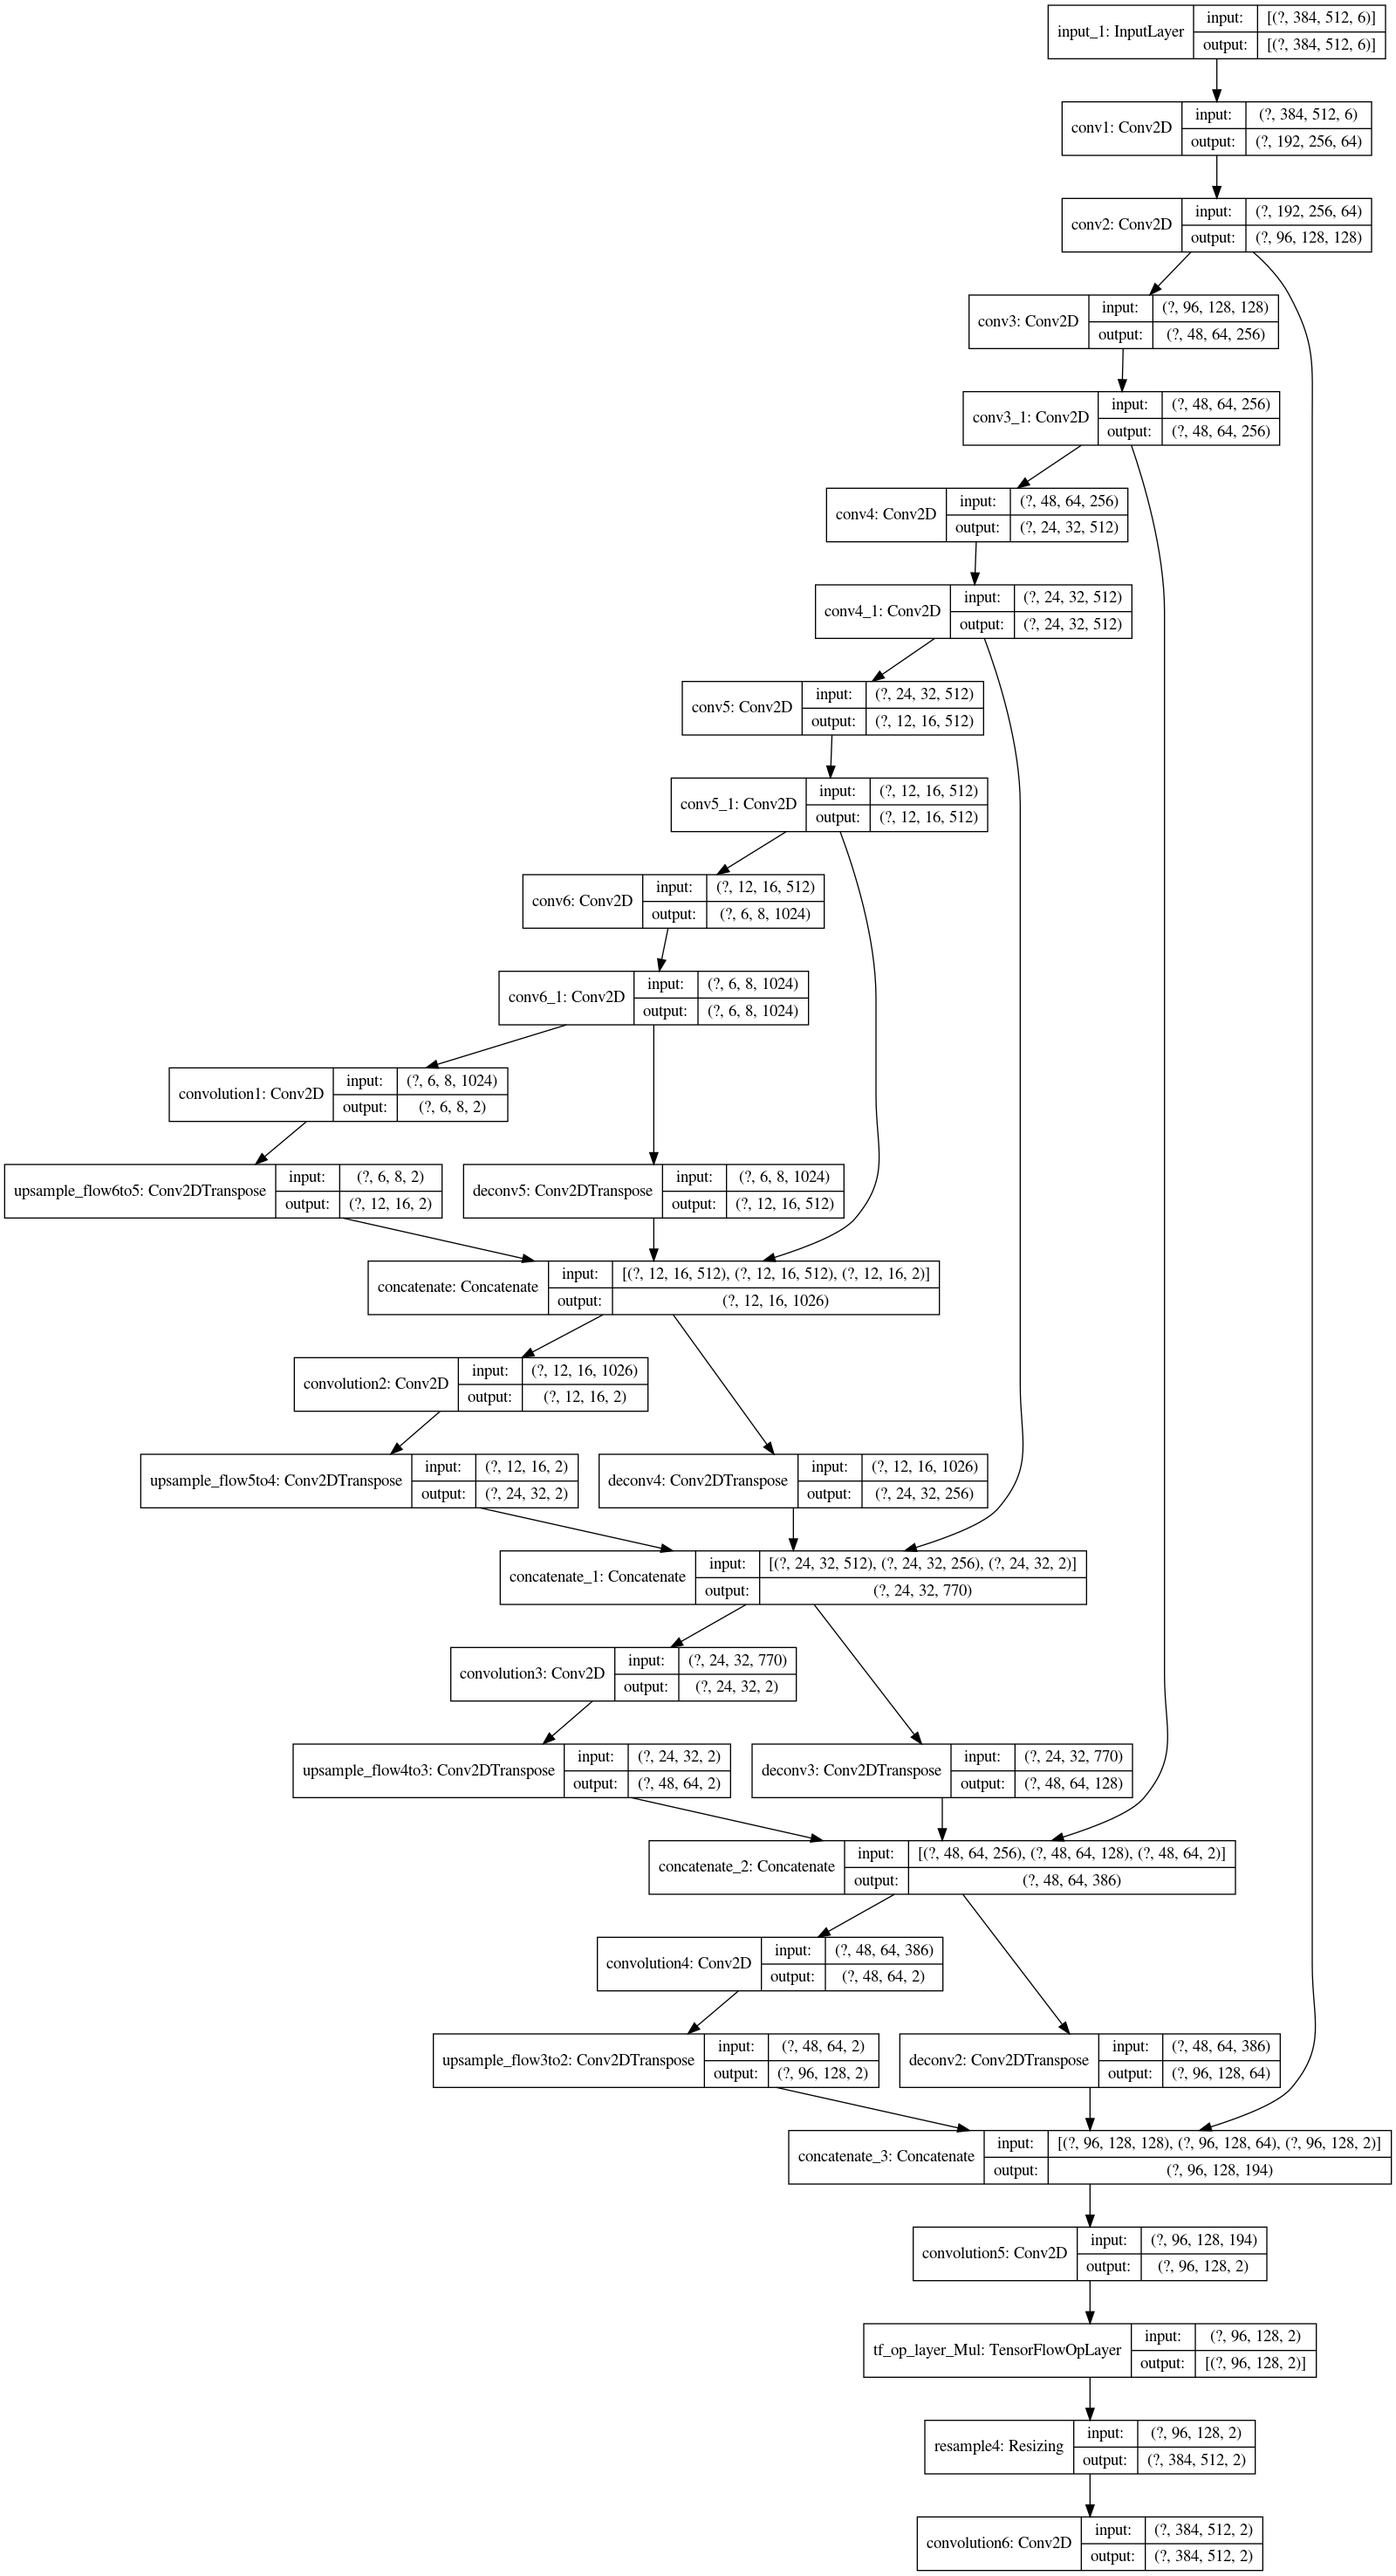
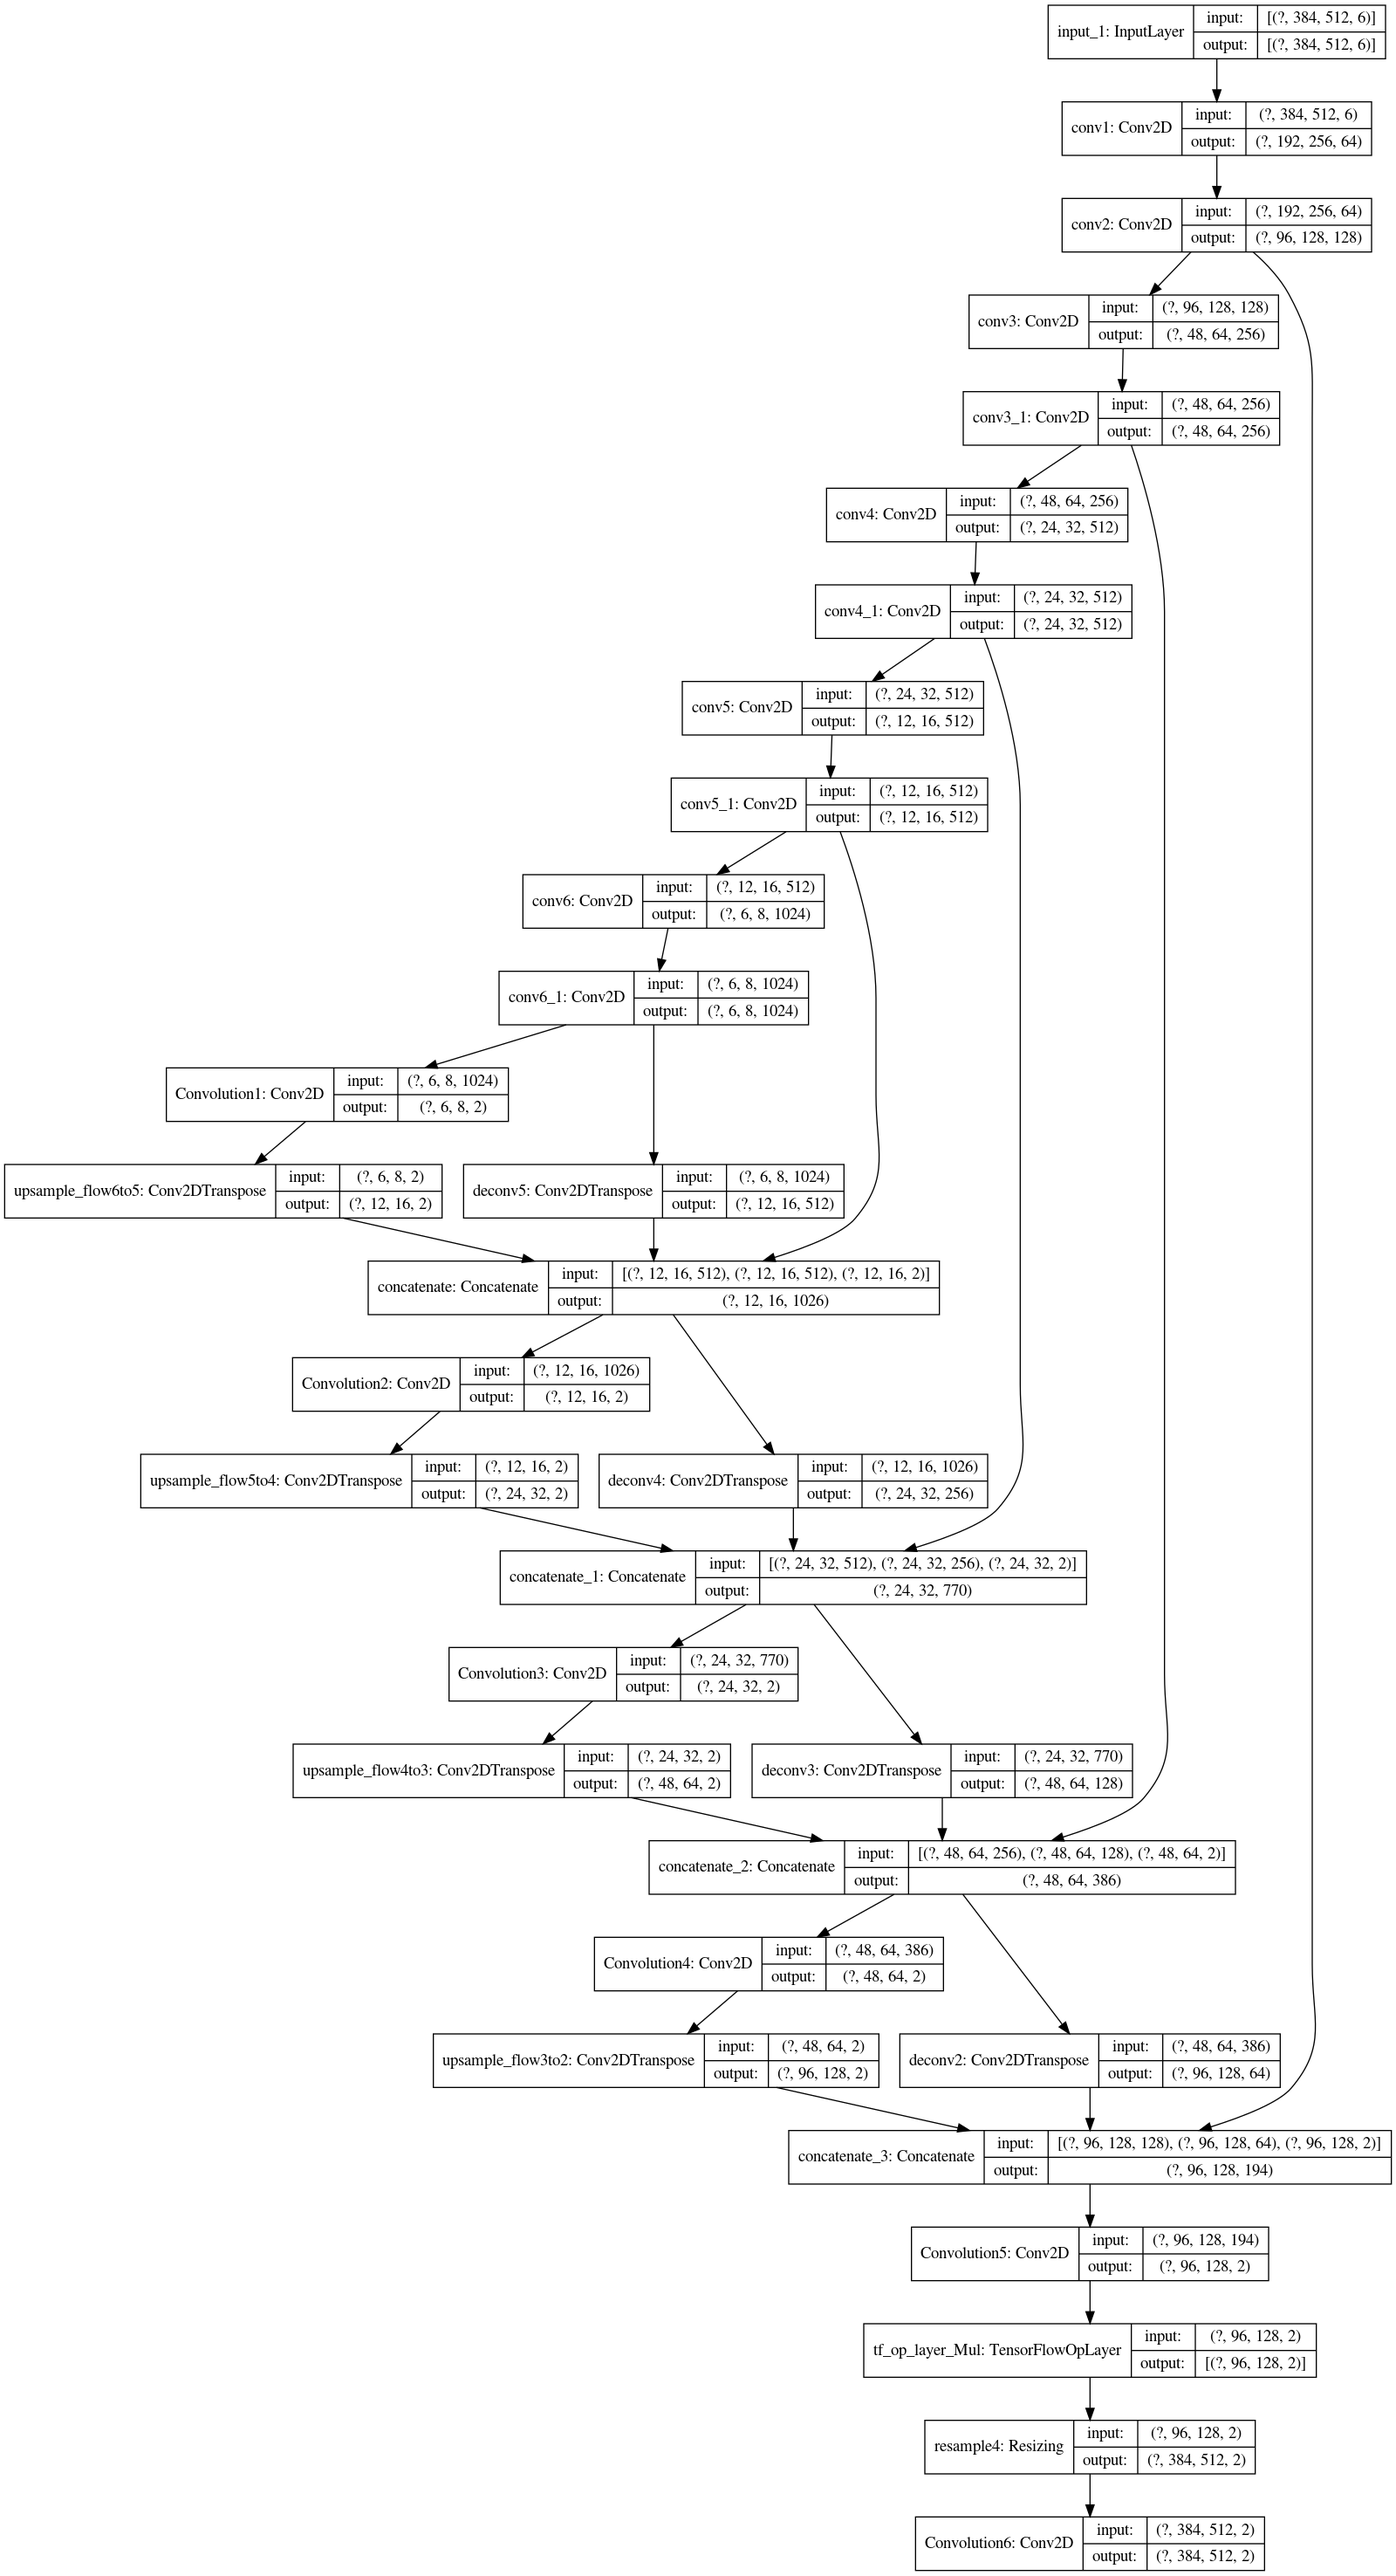
enable weight loading in main model

diff --git a/midterm/FlowNet.py b/midterm/FlowNet.py
@@ -2,7 +2,51 @@ import numpy as np
 import tensorflow as tf
 from tensorflow import keras
 from tensorflow.keras import layers
+from tensorflow.keras.models import Model
 import matplotlib.pyplot as plt
+
+weights_dict = dict()
+def load_weights_from_file(weight_file):
+    try:
+        weights_dict = np.load(weight_file, allow_pickle=True).item()
+    except:
+        weights_dict = np.load(weight_file, allow_pickle=True, encoding='bytes').item()
+    return weights_dict
+
+def set_layer_weights(model, weights_dict):
+    for layer in model.layers:
+        if layer.name in weights_dict:
+            print(layer.name)
+            cur_dict = weights_dict[layer.name]
+            current_layer_parameters = list()
+            if layer.__class__.__name__ == "BatchNormalization":
+                if 'scale' in cur_dict:
+                    current_layer_parameters.append(cur_dict['scale'])
+                if 'bias' in cur_dict:
+                    current_layer_parameters.append(cur_dict['bias'])
+                current_layer_parameters.extend([cur_dict['mean'], cur_dict['var']])
+            elif layer.__class__.__name__ == "Scale":
+                if 'scale' in cur_dict:
+                    current_layer_parameters.append(cur_dict['scale'])
+                if 'bias' in cur_dict:
+                    current_layer_parameters.append(cur_dict['bias'])
+            elif layer.__class__.__name__ == "SeparableConv2D":
+                current_layer_parameters = [cur_dict['depthwise_filter'], cur_dict['pointwise_filter']]
+                if 'bias' in cur_dict:
+                    current_layer_parameters.append(cur_dict['bias'])
+            elif layer.__class__.__name__ == "Embedding":
+                current_layer_parameters.append(cur_dict['weights'])
+            elif layer.__class__.__name__ == "PReLU":
+                gamma =  np.ones(list(layer.input_shape[1:]))*cur_dict['gamma']
+                current_layer_parameters.append(gamma)
+            else:
+                # rot 
+                if 'weights' in cur_dict:
+                    current_layer_parameters = [cur_dict['weights']]
+                if 'bias' in cur_dict:
+                    current_layer_parameters.append(np.squeeze(cur_dict['bias']))
+            model.get_layer(layer.name).set_weights(current_layer_parameters)
+    return model
 
 def step_schedule(epoch):
     #this learning rate may actually be incorrect
@@ -24,7 +68,8 @@ def EPE(y_true, y_pred):
 #there is a difference between the model as trained and as deployed
 #The following is the model as deployed
 #or at least most of it
-def FlowNetS_deployed():
+def FlowNetS_deployed(weight_file = None):
+    weights_dict = load_weights_from_file(weight_file) if not weight_file == None else None
     #stride of 2 for each layer
     #relu after each layer
     inputs = keras.Input(shape=(384,512,6))
@@ -45,61 +90,66 @@ def FlowNetS_deployed():
     #Refinement section
     #kernel size 4 instead of 5?
     decon5 = layers.Conv2DTranspose(512, 4, 2, padding='same', name='deconv5', activation='relu')(c61out)
-    flow6 = layers.Conv2D(2, 3, 1, padding='same', name='convolution1')(c61out)
+    flow6 = layers.Conv2D(2, 3, 1, padding='same', name='Convolution1')(c61out)
     flow6cup = layers.Conv2DTranspose(2, 4, 2, padding='same', name='upsample_flow6to5')(flow6)
     #make sure to check the order on those concats
     cat2 = layers.Concatenate(axis=3)([c51out,decon5,flow6cup])
 
     decon4 = layers.Conv2DTranspose(256, 4, 2, padding='same', name='deconv4', activation='relu')(cat2)
-    flow5 = layers.Conv2D(2, 3, padding='same', name='convolution2')(cat2)
+    flow5 = layers.Conv2D(2, 3, padding='same', name='Convolution2')(cat2)
     flow5up = layers.Conv2DTranspose(2, 4, 2, padding='same', name='upsample_flow5to4')(flow5)
     #it may be worth building a custom layer for this as it repeats a few times
     cat3 = layers.Concatenate(axis=3)([c41out, decon4, flow5up])
 
     decon3 = layers.Conv2DTranspose(128, 4, 2, padding='same', name='deconv3', activation='relu')(cat3)
-    flow4 = layers.Conv2D(2, 3, padding='same', name='convolution3')(cat3)
+    flow4 = layers.Conv2D(2, 3, padding='same', name='Convolution3')(cat3)
     flow4up = layers.Conv2DTranspose(2, 4, 2, padding='same', name='upsample_flow4to3')(flow4)
     cat4 = layers.Concatenate(axis=3)([c31out, decon3, flow4up])
 
     decon2 = layers.Conv2DTranspose(64, 4, 2, padding='same', name='deconv2', activation='relu')(cat4)
-    flow3 = layers.Conv2D(2, 3, padding='same', name='convolution4')(cat4)
+    flow3 = layers.Conv2D(2, 3, padding='same', name='Convolution4')(cat4)
     flow3up = layers.Conv2DTranspose(2, 4, 2, padding='same', name='upsample_flow3to2')(flow3)
     cat5 = layers.Concatenate(axis=3)([c2out, decon2, flow3up])
 
-    x = layers.Conv2D(2, 3, 1, padding='same', name='convolution5')(cat5)
+    x = layers.Conv2D(2, 3, 1, padding='same', name='Convolution5')(cat5)
     x = x*20; #why? because!
     #some more bullshit here
     #padding does nothing here right?
     #some magic interpolation here
     #convolution with constants for scaling purposes see actual model wtf
     x = layers.experimental.preprocessing.Resizing(384, 512, interpolation="bilinear", name='resample4')(x)
-    outputs = layers.Conv2D(2, 1, 1, padding='valid', name='convolution6')(x)
+    outputs = layers.Conv2D(2, 1, 1, padding='valid', name='Convolution6')(x)
     #384, 512 output
-    return inputs, outputs
+    model = Model(inputs = [inputs], outputs = [outputs])
+    if weights_dict != None:
+        set_layer_weights(model, weights_dict)
+    return model
 
+if __name__ == '__main__':
 
-model = keras.Model(*FlowNetS_deployed(), name="FlowNetS")
-model.summary()
-keras.utils.plot_model(model, "FlowNetS_model.png", show_shapes=True)
+    #model = FlowNetS_deployed()
+    model = FlowNetS_deployed('checkpoints/trained_weights.npy')
+    model.summary()
+    keras.utils.plot_model(model, "FlowNetS_model.png", show_shapes=True)
 
-optimizer = tf.keras.optimizers.Adam(1e-4)
-#model.compile(loss=EPE
+    optimizer = tf.keras.optimizers.Adam(1e-4)
+    #model.compile(loss=EPE
 
-SAVE_PERIOD = 10
+    SAVE_PERIOD = 10
 
-rate_callback = keras.callbacks.LearningRateScheduler(step_schedule)
-checkpoint_callback = keras.callbacks.ModelCheckpoint(
-    filepath='checkpoints/model-{epoch%SAVE_PERIOD:04d}.hdf5',
-    save_freq='epoch',
-    period='SAVE_PERIOD',
-    save_weights_only=True)
+    rate_callback = keras.callbacks.LearningRateScheduler(step_schedule)
+    checkpoint_callback = keras.callbacks.ModelCheckpoint(
+        filepath='checkpoints/model-{epoch%SAVE_PERIOD:04d}.hdf5',
+        save_freq='epoch',
+        period='SAVE_PERIOD',
+        save_weights_only=True)
 
-#validation data is special
-callbacks = [rate_callback, checkpoint_callback]
-#history = model.fit(x, y, batch_size=8, epochs=1, callbacks=[rate_callback])
-
-#batch_size = 8
-#mode.fit( yayaya, [rate_callback])
-
-#output should be bilinearly interpolated to full resolution
-#UpSampling2D is the function to use
+    #validation data is special
+    callbacks = [rate_callback, checkpoint_callback]
+    #history = model.fit(x, y, batch_size=8, epochs=1, callbacks=[rate_callback])
+    
+    #batch_size = 8
+    #mode.fit( yayaya, [rate_callback])
+    
+    #output should be bilinearly interpolated to full resolution
+    #UpSampling2D is the function to use
